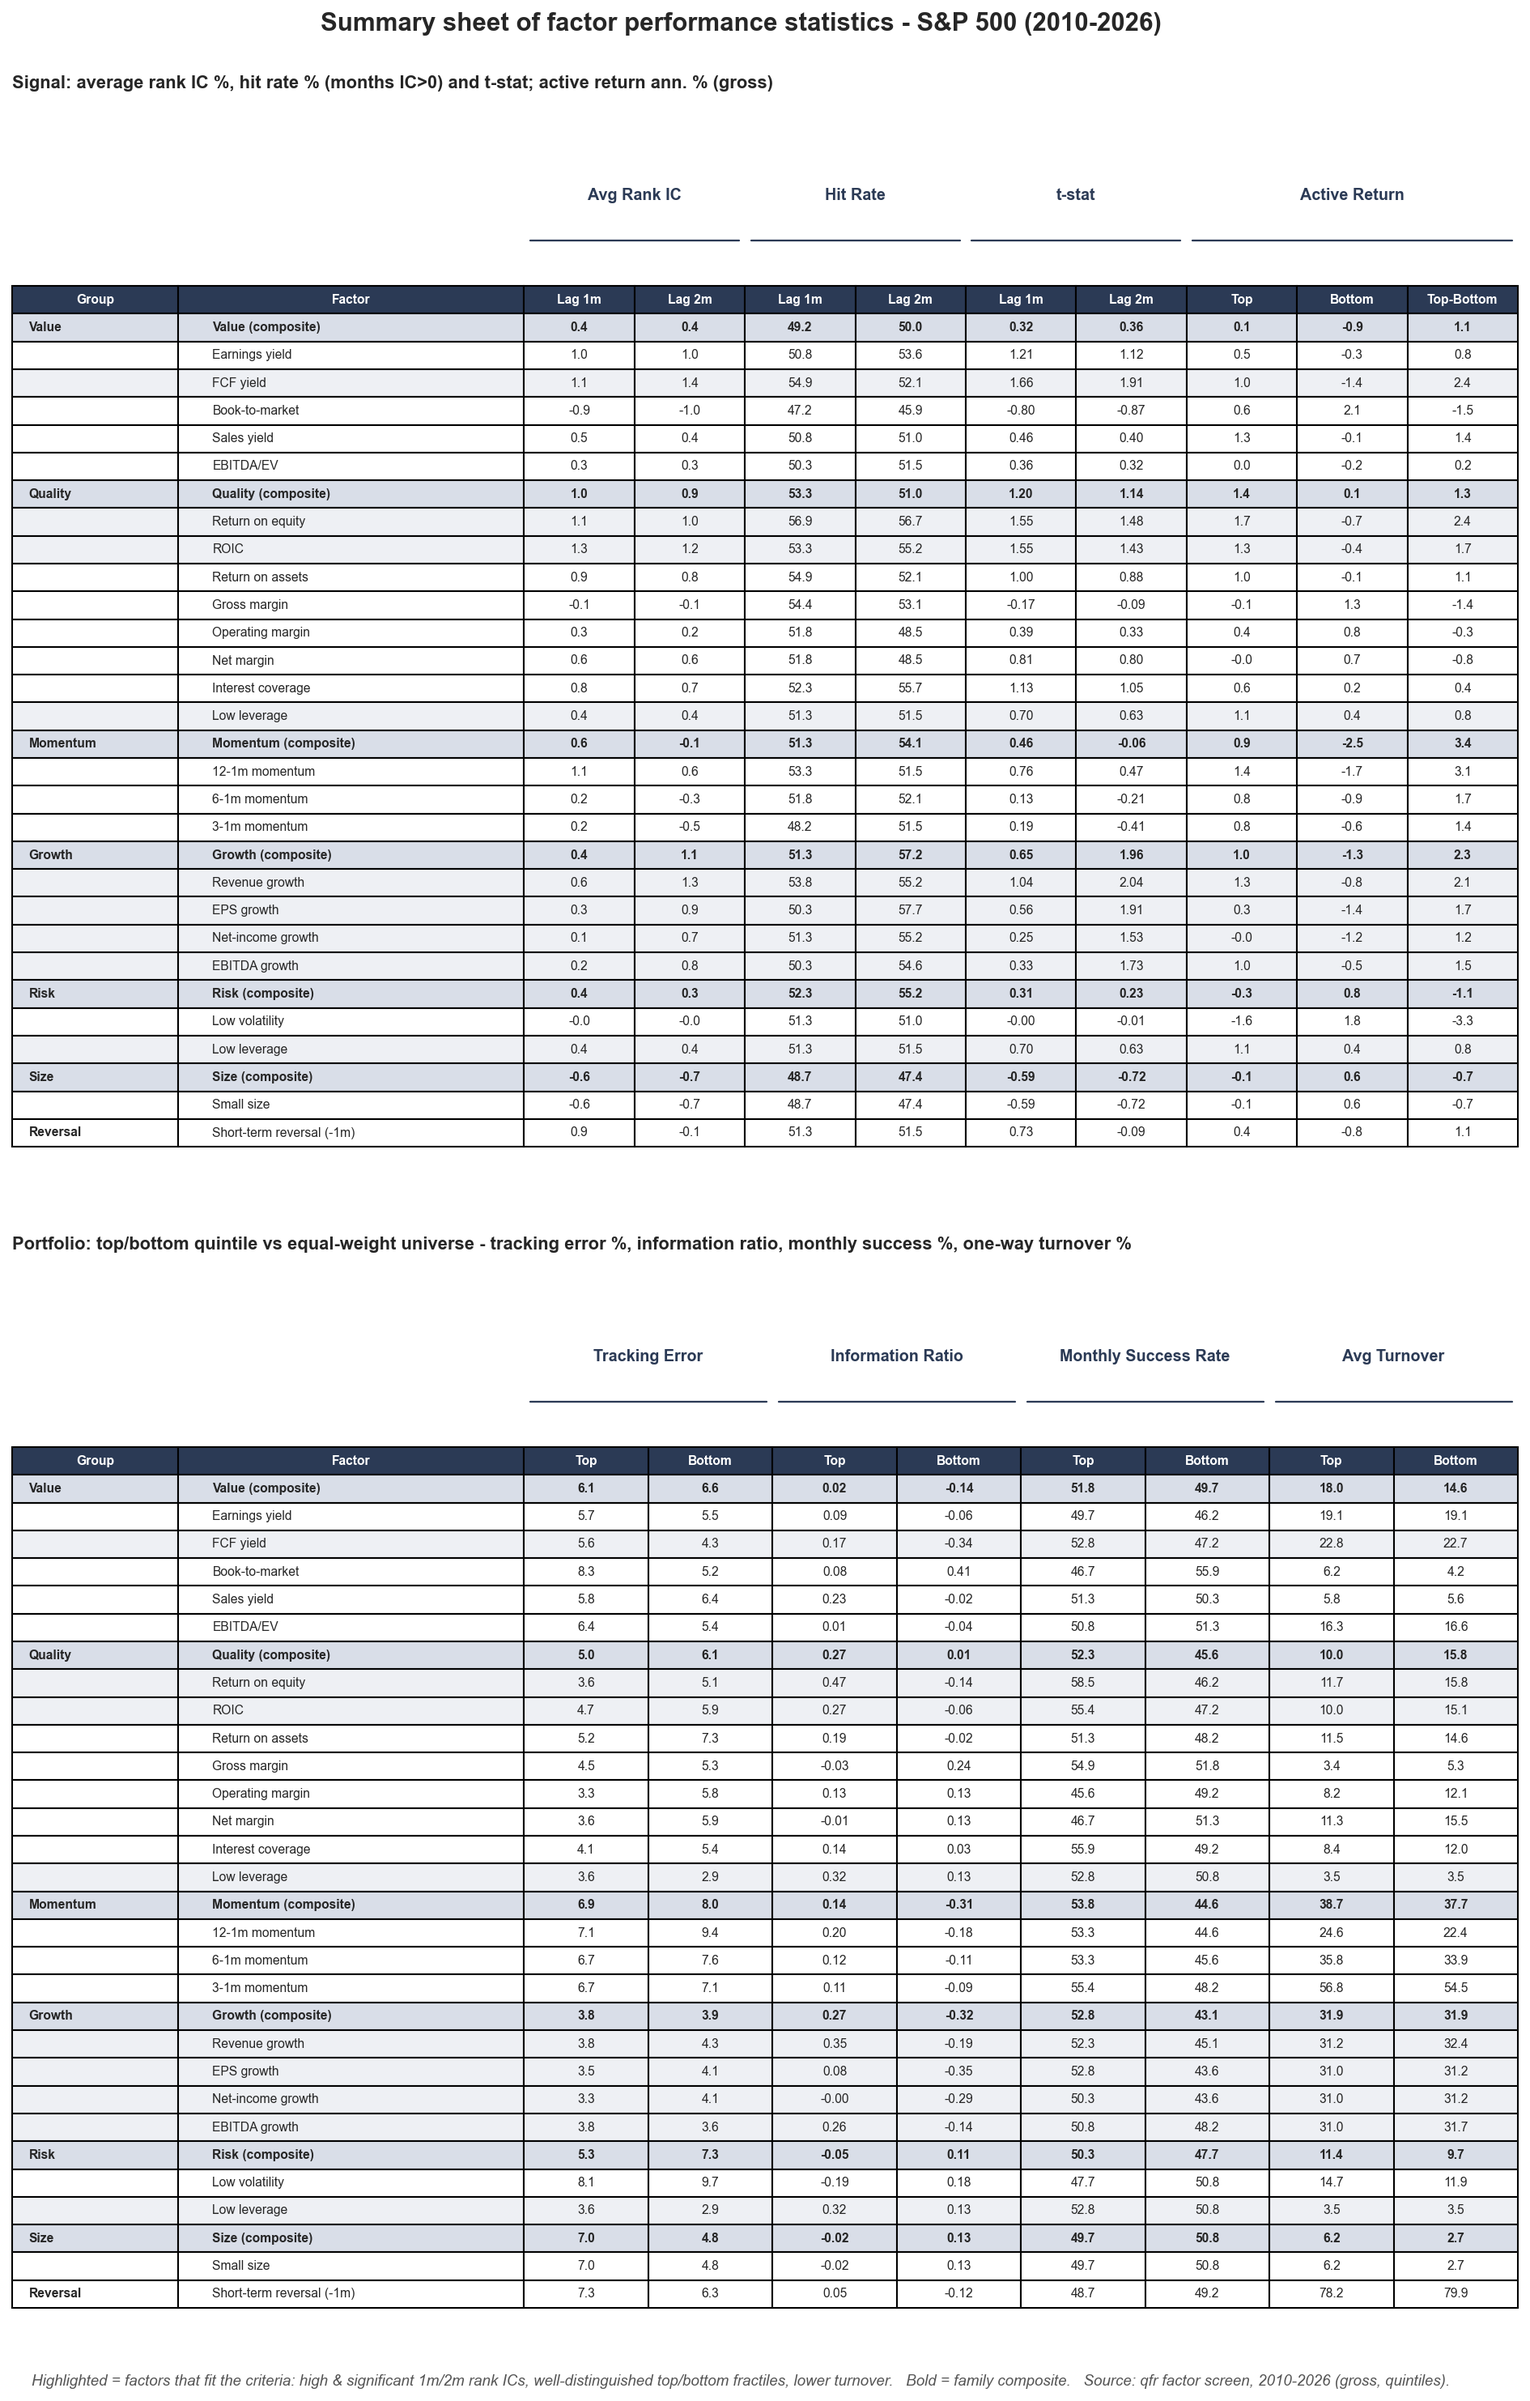
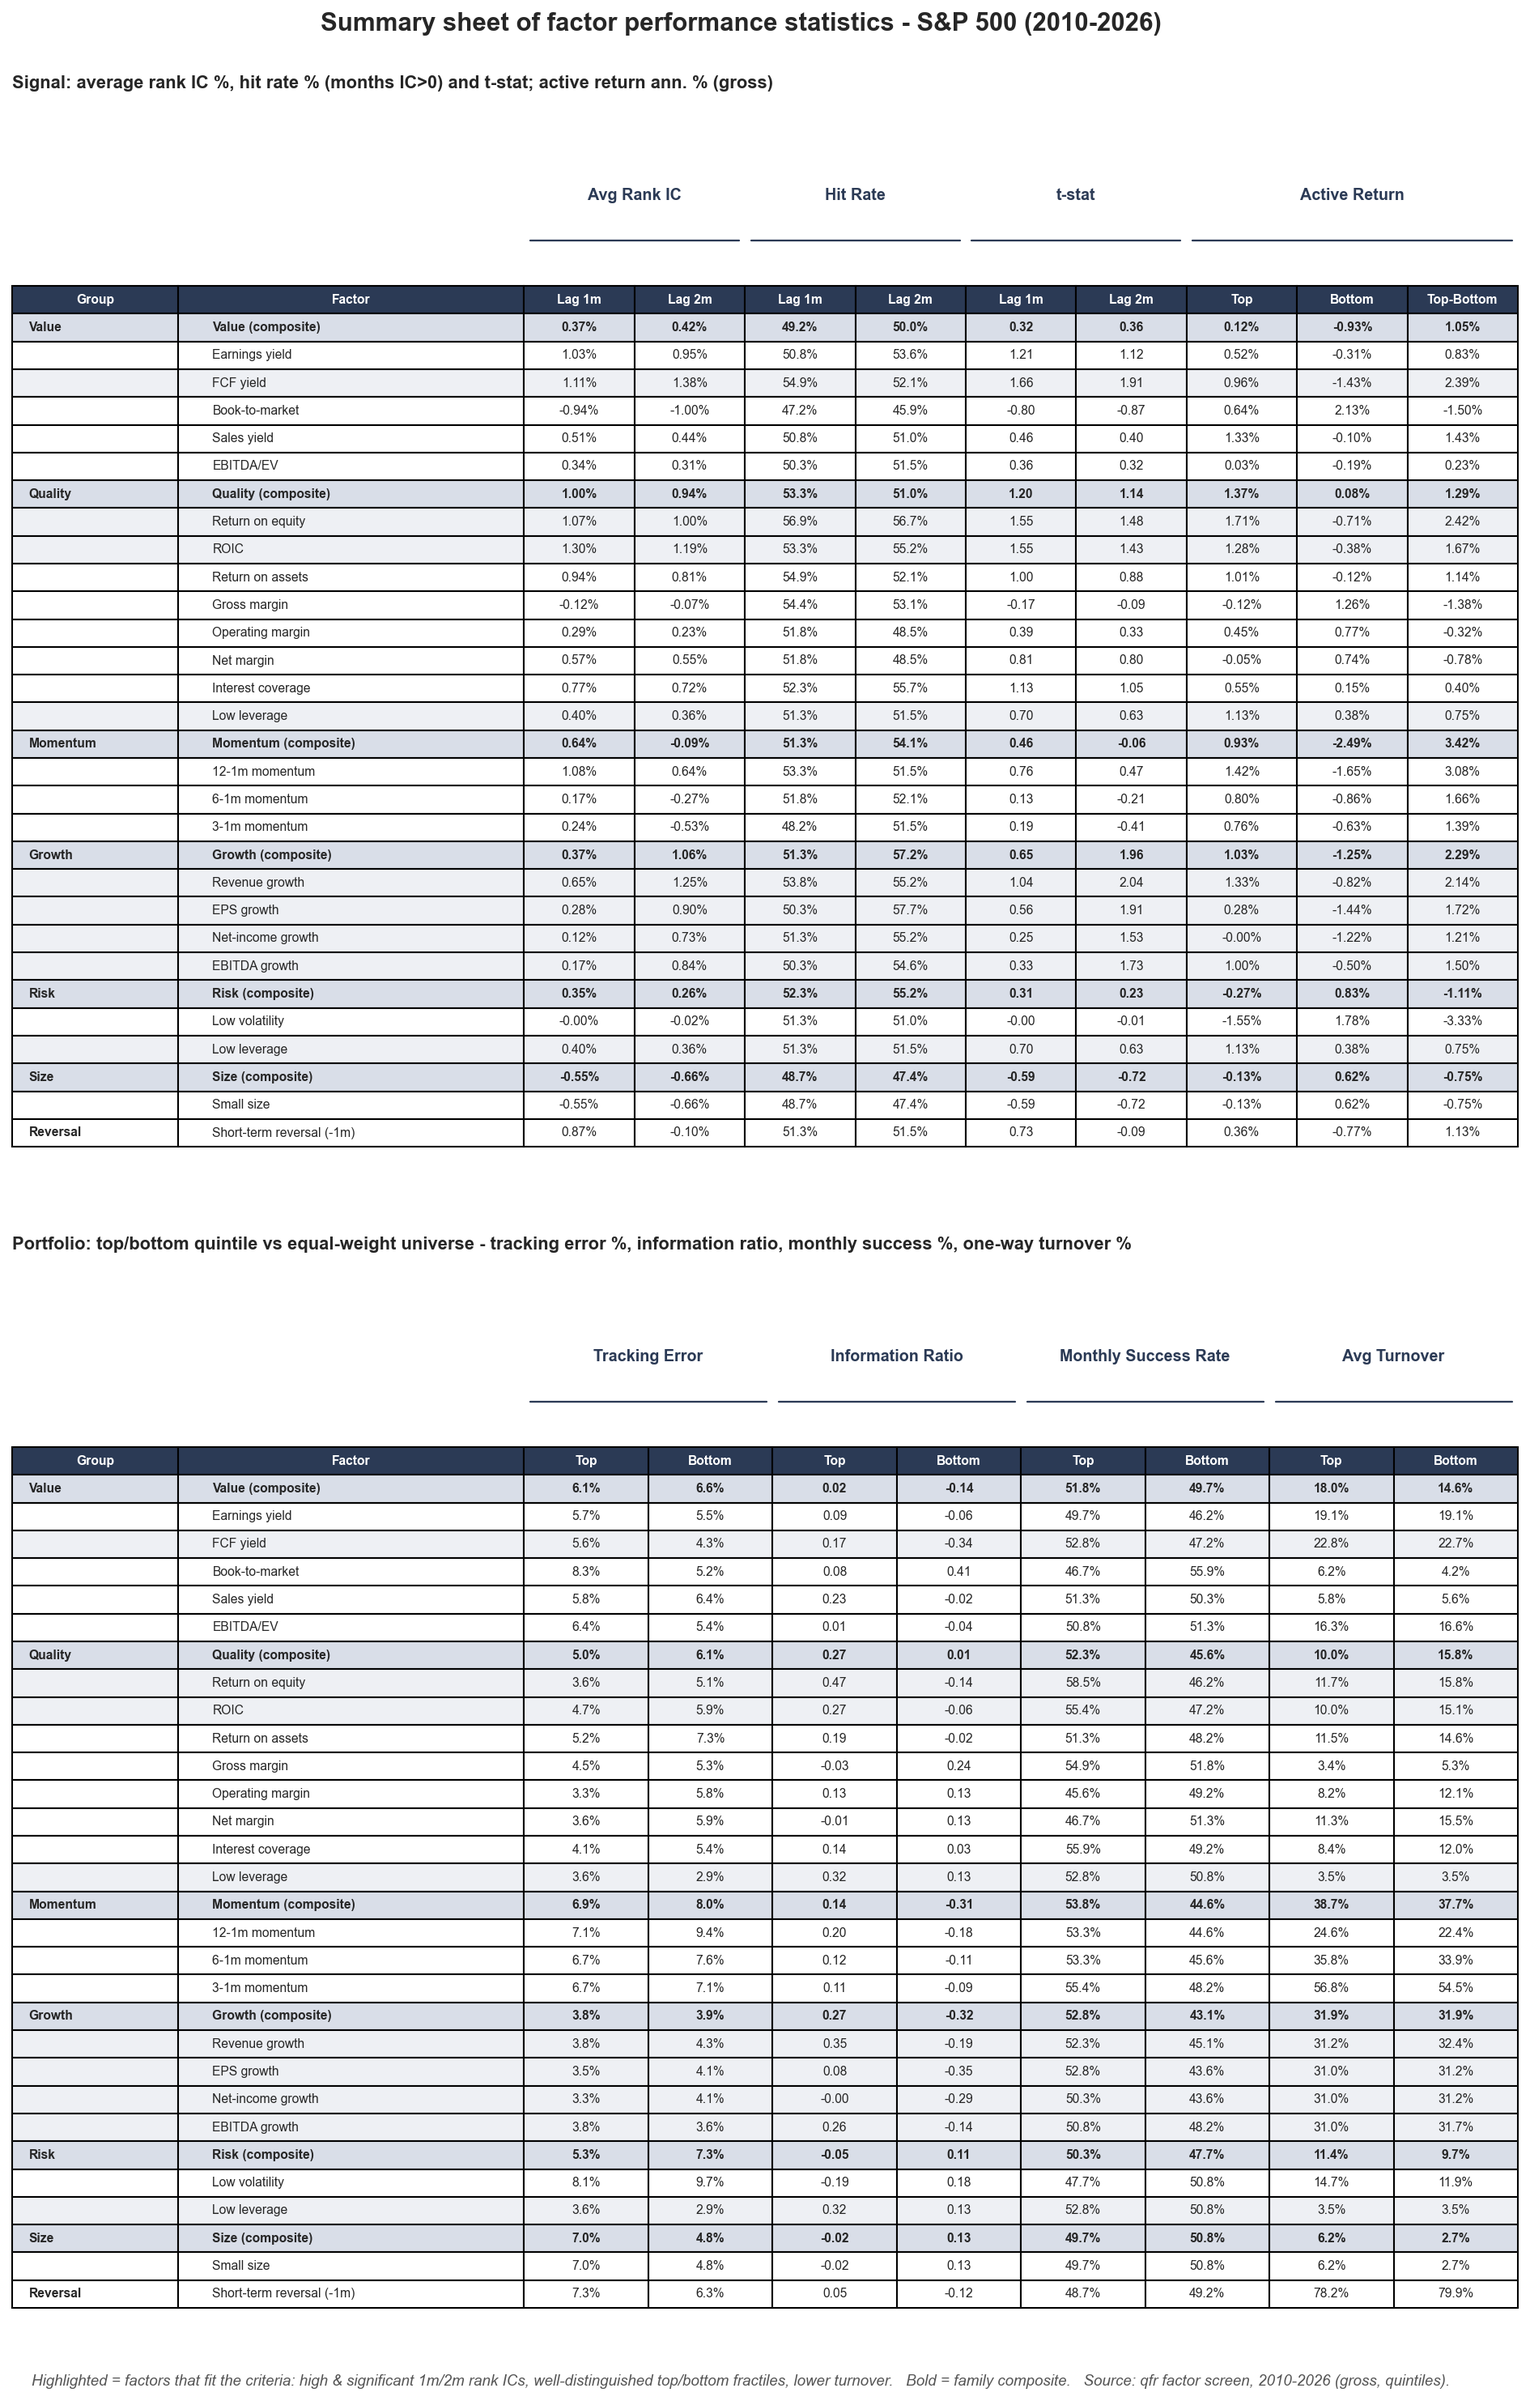
Show % signs on the factor-screen table
Append % to every column except t-stat and Information Ratio; IC and active-return
columns shown to 2 dp (small magnitudes), the rest to 1 dp - mirroring the photo.

diff --git a/src/qfr/validation/factor_screen.py b/src/qfr/validation/factor_screen.py
@@ -156,15 +156,28 @@ def build_screen(panel: pd.DataFrame | None = None) -> pd.DataFrame:
 # columns expressed as percentages for display
 PCT_COLS = ["IC_1m", "IC_2m", "Hit_1m", "Hit_2m", "Act_top", "Act_bot", "Act_LS",
             "TE_top", "TE_bot", "Succ_top", "Succ_bot", "Turn_top", "Turn_bot"]
+TWO_DP_PCT = ["IC_1m", "IC_2m", "Act_top", "Act_bot", "Act_LS"]  # small magnitudes -> 2 dp
+NO_PCT = ["t_1m", "t_2m", "IR_top", "IR_bot"]                    # t-stat / IR: no % sign
 
 
 def to_display(df: pd.DataFrame) -> pd.DataFrame:
     out = df.copy()
     for c in PCT_COLS:
-        out[c] = (out[c] * 100).round(1)
-    for c in ["t_1m", "t_2m", "IR_top", "IR_bot"]:
+        out[c] = (out[c] * 100).round(2 if c in TWO_DP_PCT else 1)
+    for c in NO_PCT:
         out[c] = out[c].round(2)
     return out
+
+
+def _fmt_cell(col: str, v: float) -> str:
+    """Match the Macquarie sheet: % on every column except t-stat and IR."""
+    if pd.isna(v):
+        return "-"
+    if col in NO_PCT:
+        return f"{v:.2f}"
+    if col in TWO_DP_PCT:
+        return f"{v:.2f}%"
+    return f"{v:.1f}%"
 
 
 def _selected(row: pd.Series) -> bool:
@@ -188,7 +201,7 @@ def _panel(ax, disp: pd.DataFrame, cols: list[str], subhdr: list[str],
         g = row["Group"]
         glabel = "" if g in seen else g
         seen.add(g)
-        vals = [f"{row[c]:.2f}" if c in ("t_1m", "t_2m", "IR_top", "IR_bot") else f"{row[c]:.1f}" for c in cols]
+        vals = [_fmt_cell(c, row[c]) for c in cols]
         text.append([glabel, row["Factor"].strip(), *vals])
 
     collabels = ["Group", "Factor", *subhdr]
